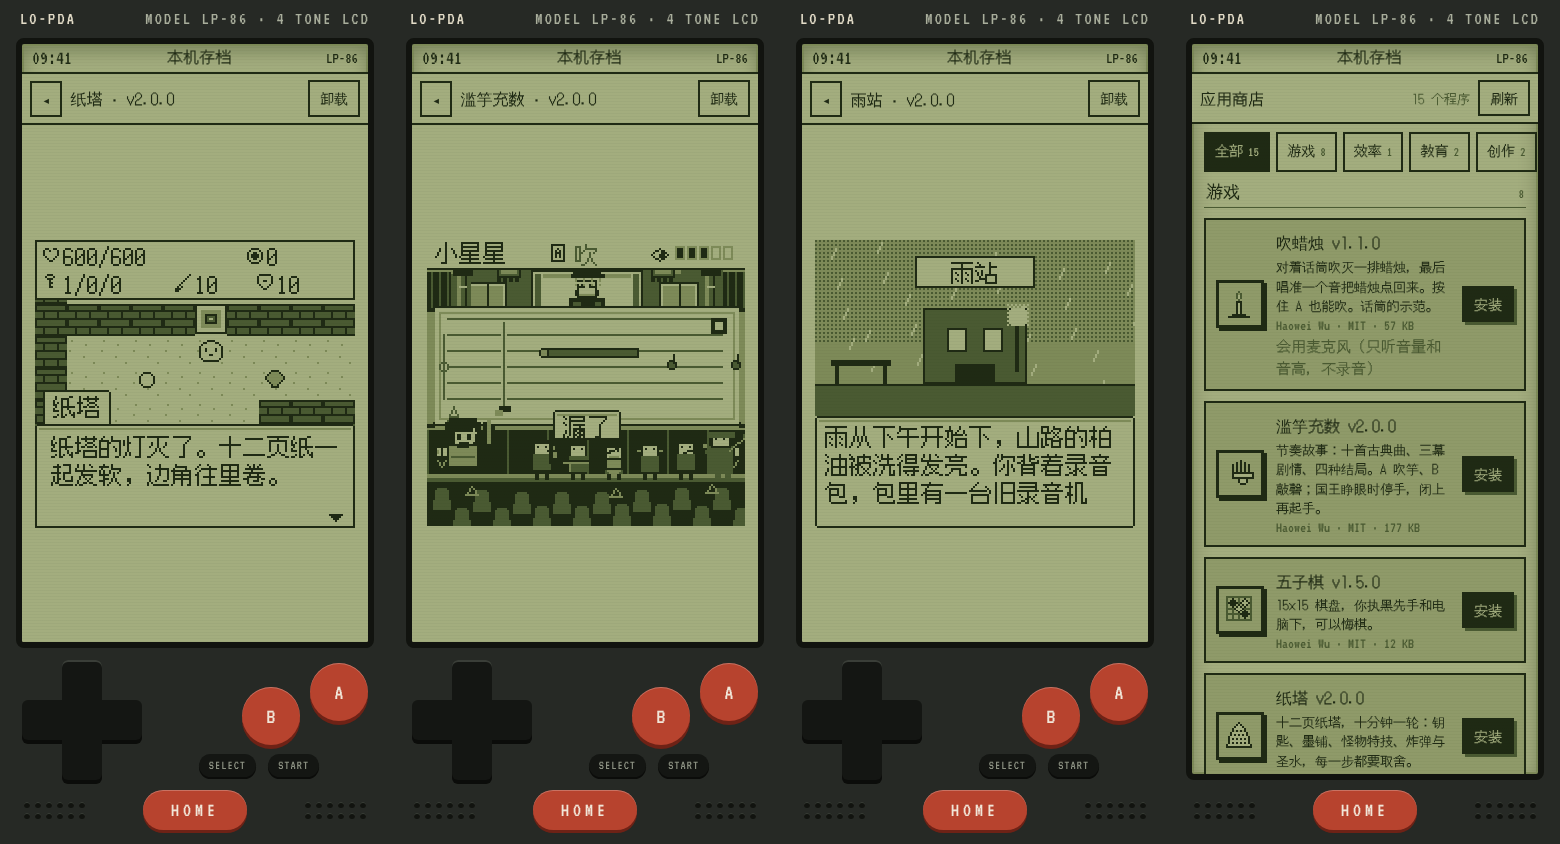
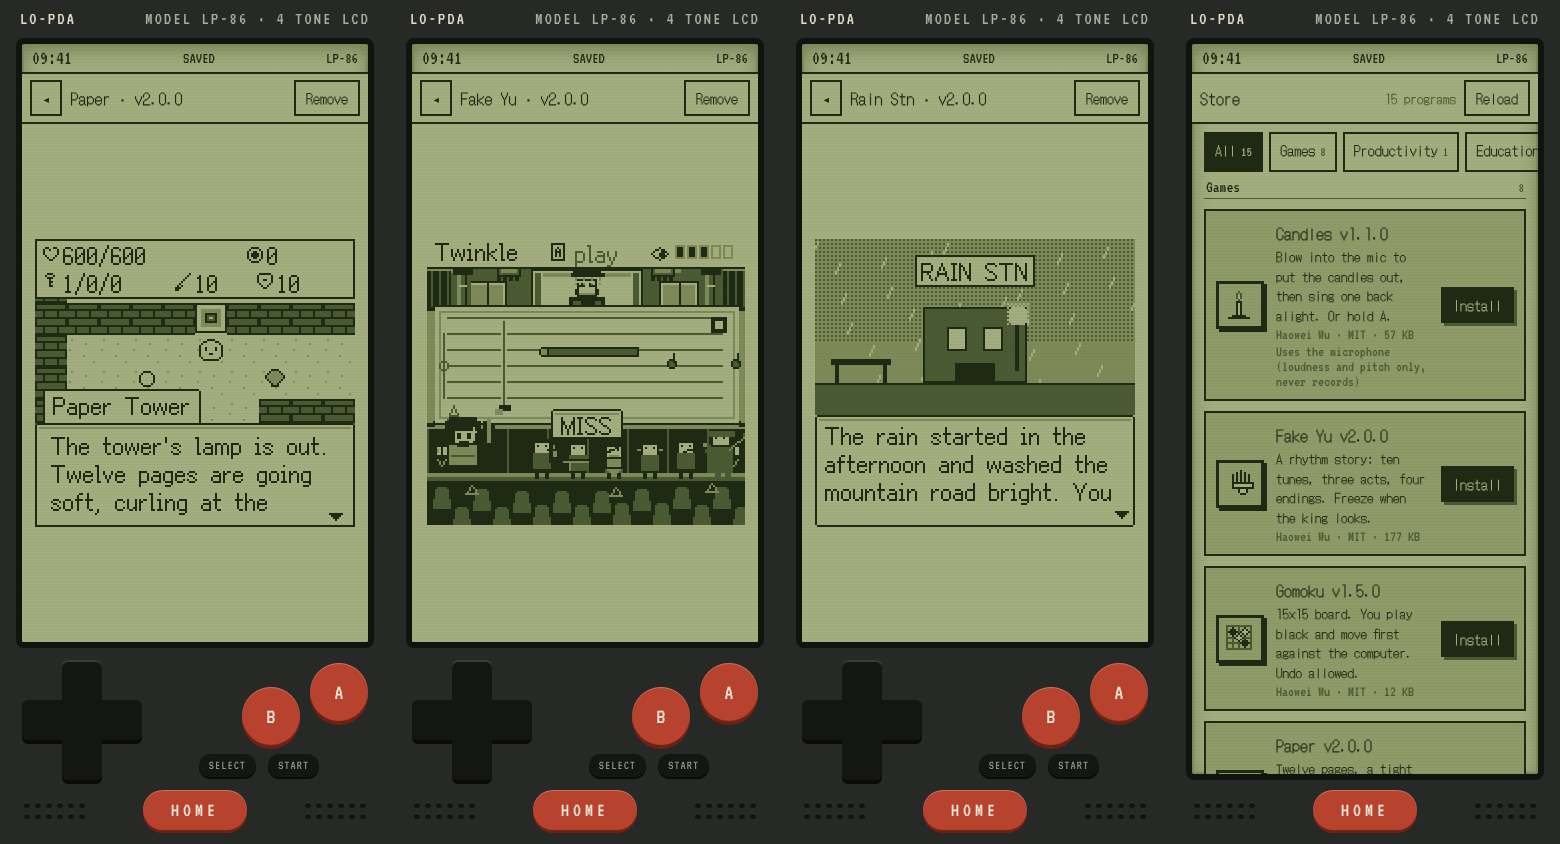
README in English with English screenshots; README.zh.md in Chinese with the Chinese ones
tools/readme-shots.mjs takes --lang=en|zh: English (the default) writes
docs/images/ for README.md, Chinese writes docs/images/zh/ for README.zh.md.
The prints (contact sheet, film strip) are the same in both and made once.
Each README links to the other at the top.

Claude-Session: https://claude.ai/code/session_01TjV6BxdRpnRvhUVWJhsNTR

diff --git a/README.zh.md b/README.zh.md
@@ -1,0 +1,132 @@
+# Lo-PDA
+
+一台住在手机里的四色掌机，Hi-PDA 的低保真表亲。
+
+**[English →](README.md)**
+
+**在线试玩：** https://nowheremanx.github.io/lopda/ （用手机打开，再选「添加到主屏幕」）
+
+![手机上的 Lo-PDA：主屏、相机的点阵取景器、冲洗店里冲出来的彩色照片、用这张照片做的拼图](docs/images/zh/screens.png)
+
+Lo-PDA 是一个渐进式网页应用（PWA），样子是一台虚构的 1986 年掌机：一块只有四种颜色的绿色液晶屏，
+下巴上有十字键、A、B、SELECT、START，还有一个 HOME 键。里面有胶片相机和冲洗店、日记、万年历、词典、
+阅读器、卡带机，还有一个放社区小程序的应用商店。所有东西都在手机上运行、存在手机上：
+不用注册，没有广告，没有统计，离线也能用。
+
+## 用 Lo-PDA 拍的
+
+相机照胶片相机的规矩来。装一卷 8、12 或 16 张的胶卷，七种胶片任选一种
+（人像 400、暖阳 200、青绿 400、樱 400、夜 800T、黑白 400、过期）。取景器是实时的四色点阵，没有回看：
+冲洗之前你不知道拍成了什么样。拍完的胶卷取出来，放进冲洗店的胶卷盒。
+
+每卷胶卷在冲洗店里只冲一次，冲出来是彩色的：有这种胶片的色调、颗粒、高光晕，偶尔漏光，角上印着日期。
+看片的时候是整台掌机唯一显示彩色的地方，像把相片放在玻璃上看。相片可以导出成单张、接触印相或胶片条；
+整卷也可以导出成一张四色底片 PNG，里面带着彩色原片，以后还能导回来。
+
+<img src="docs/images/contact-sheet.png" width="360" alt="一卷 8 张人像 400 的接触印相：湖、山上的塔、一条从左划到右的帆船">
+
+![同一卷的胶片条，有齿孔和边缘字](docs/images/film-strip.png)
+
+## 里面有什么
+
+![记事本里今天的日记、带农历和日记折角的万年历、词典的一个词条、阅读器里的《论语》](docs/images/zh/builtins.png)
+
+| 内置程序 | 做什么 |
+|---|---|
+| 记事本 | 一打开就是今天的日记，还有「那年今日」。`#标签`、搜索、置顶、保留 30 天的回收站；可以把全部笔记打包成 Markdown 文件导出，也能导回来。 |
+| 万年历 | 公历、农历和节气（1900–2100），国家法定节假日和调休，自己加的纪念日。写过日记的日子有一个折角。 |
+| 词典 | 英汉词典，内置、离线（精简版 ECDICT）。可以导入 StarDict 词典；生词本可以复习；按 A 读出单词。 |
+| 阅读器 | 看 TXT 和 EPUB，可以用自己的字体，有墨水屏式的全屏刷新。选中文字可以查词，也可以摘抄进记事本。自带两本公版书。 |
+| 点阵相机 | 实时点阵取景器、胶卷、七种胶片，手机上的每个镜头都能用。 |
+| 冲洗店 | 胶卷盒：冲洗、看彩色照片、出片、导出和导入底片。 |
+| 卡带机 | 玩你自己提供的黑白 Game Boy 文件，用下巴上的按键。存档可以导出、导入。不带任何游戏。 |
+| 应用商店 | 按分类安装、更新、运行社区小程序。 |
+| 脚本 | 你自己的 HTML/JS 小程序：复制一段给 AI 的提示词，把它写的代码粘回来，在沙盒里运行。 |
+| 设置 | 声音、音量、语言（中文 / English）、哪些 app 能用传感器和相机、整机备份和恢复、检查更新。 |
+
+## 应用商店
+
+![正在玩的三个商店游戏：纸塔、滥竽充数、雨站，还有商店列表](docs/images/zh/apps.png)
+
+现在有 15 个，全部开源，都是给 Lo-PDA 做的：
+
+| 类型 | app |
+|---|---|
+| 游戏 | 纸塔（十分钟爬一座塔）、滥竽充数（单键节奏故事）、拍照拼图（用你拍的照片拼）、滚珠迷宫（倾斜手机）、吹蜡烛（对着话筒吹）、五子棋、打地鼠、镇妖塔·序章（3D） |
+| 故事 | 雨站，视觉小说，七章，五个结局 |
+| 工具和玩具 | 计算器和点阵画板（预装）、每日一签、五十音图、声音样本、矢量梦 |
+
+预装的 app 和别的商店 app 一样：删掉就不会再自动装回来，商店里还能再装。
+
+## 做一个 app
+
+一个 app 就是一个不超过 512 KB 的 HTML 文件，加一个 `manifest.json`。它在沙盒 iframe 里运行，不能联网，
+没有自己的存储，通过一个小小的 `PAD` 对象和掌机打交道：
+
+| | app 能用什么 |
+|---|---|
+| 随时能用 | 按键、256 KB 存档、内置音效、MML 芯片音乐、自定义音效、环境音（雨、海浪、火……）、当前语言、`PAD.say` 朗读一句话 |
+| 要声明权限 | `files`（导出、导入一个文件）、`motion`（倾斜和摇晃）、`mic`（音量和音高，不录音）、`notes`（写进记事本）、`camera`（通过掌机自己的取景器拍一张四色照片） |
+
+每个权限都由掌机自己来问，不是 app 问；玩家可以拒绝，拒绝后 app 也必须能用按键玩。
+完整规则见 [`SPEC.md`](SPEC.md)（规范 `lopda/1`），屏幕布局规则见 [`sdk/UI.md`](sdk/UI.md)。
+
+```sh
+cp -r sdk/template registry/apps/my-app       # 然后把 manifest.json 里的 "id" 改成 "my-app"
+python3 -m http.server 8086                   # 在仓库根目录运行
+# 打开 http://localhost:8086/sdk/dev.html?app=registry/apps/my-app
+node tools/check-app.mjs registry/apps/my-app
+node tools/build-index.mjs
+```
+
+- 用 AI 写：[`sdk/PROMPT.md`](sdk/PROMPT.md) 是现成的提示词。
+- 做游戏：[`sdk/lo-game.js`](sdk/LO-GAME.md) 带像素字体、对话框、菜单和地图；从 `sdk/template-game/` 开始，
+  视觉小说用 `sdk/template-vn/`。3D 用 [`sdk/lo-3d.js`](sdk/LO-3D.md)。
+- 线上开发台不用装任何东西，带按键和日志，能直接加载任何商店 app：
+  `https://nowheremanx.github.io/lopda/sdk/dev.html?app=registry/apps/<id>`。
+- 投稿就是开一个 pull request。中英双语的步骤见 [`CONTRIBUTING.md`](CONTRIBUTING.md)，
+  审核看什么见 [`docs/REVIEW.md`](docs/REVIEW.md)。
+
+## 你的数据
+
+所有数据都存在手机浏览器的本地存储里。「设置 → 备份」把整台掌机（笔记、胶卷和彩色原片、书、词典、卡带存档、app 存档）
+打成一个 `lopda-backup-YYYYMMDD.zip`；「恢复」先校验这个文件，校验通过才放回去。内置程序里只有万年历会联网：
+缺下一年的节假日表时，从 jsDelivr 拉一次（到今年为止的表已经打包在里面）。app 完全不能联网。
+
+## 在本机运行
+
+在仓库根目录起任何一个静态文件服务器都行，因为 runtime 会加载 `../sdk/` 和 `../registry/`：
+
+```sh
+cd lopda
+python3 -m http.server 8086
+# 打开 http://localhost:8086/runtime/
+```
+
+手机上要用 **HTTPS** 打开，再「添加到主屏幕」。直接用 `http://<电脑的 IP>:8086` 可以随便看看，
+但在不安全的地址上，浏览器会关掉实时相机、离线模式和分享面板。开发时拿到 HTTPS 的两个简单办法：
+
+```sh
+# 一个临时的公网 https 地址，不用注册
+brew install cloudflared
+cloudflared tunnel --url http://localhost:8086
+# 然后在手机上打开 https://<随机名>.trycloudflare.com/runtime/
+```
+
+或者用 GitHub Pages 发布这个仓库。
+
+`node --test` 运行测试（没有依赖）。`node tools/readme-shots.mjs --lang=zh` 生成这一页的截图（需要 Playwright）。
+
+## 设计原则
+
+每个改动都应该替用户少做一个决定，至少不多加一个。四种颜色、固定的张数、不能回看、一卷只冲一次、
+拍下的照片不能改。限制本身就是乐趣。为什么这样设计，见 [`docs/decisions.md`](docs/decisions.md)。
+
+<sub>截图是在电脑浏览器里由 `tools/readme-shots.mjs` 生成的；相机拍的是代码画出来的一片湖。</sub>
+
+## 许可证
+
+[MIT](LICENSE)。Copyright (c) 2026 Haowei Wu。
+
+每个商店 app 由作者自选宽松许可证。第三方部分（字体、Game Boy 内核、词典数据、节假日表）保留各自的宽松许可，
+列在 `LICENSING.md` 和 `NOTICE` 里。「Lo-PDA」这个名字和图标不在许可范围内：发布给别人用的分支需要自己起名字。

diff --git a/README.md b/README.md
@@ -2,7 +2,7 @@
 
 A four-tone handheld that lives on your phone. Hi-PDA's low-fidelity cousin.
 
-一台住在手机里的四色掌机，Hi-PDA 的低保真表亲。
+**[中文介绍 / 中文截图 →](README.zh.md)**
 
 **Try it:** https://nowheremanx.github.io/lopda/ — open it on a phone and "Add to Home Screen".
 
@@ -31,7 +31,7 @@ as a four-tone negative PNG that carries the colour originals inside, and come b
 
 ## What's inside
 
-![Notes with today's diary, the calendar with lunar dates and a folded corner on days with a diary, a dictionary entry, and a page of the Analects in the reader](docs/images/builtins.png)
+![Notes with today's diary, the calendar with lunar dates and a folded corner on days with a diary, a dictionary entry, and a page of Alice in Wonderland in the reader](docs/images/builtins.png)
 
 | Built-in | 内置 | What it does |
 |---|---|---|
@@ -60,7 +60,7 @@ Fifteen apps today, all open source and all made for Lo-PDA:
 
 Preinstalled apps are ordinary store apps: remove them and they stay removed; the store has them again.
 
-## Make an app / 做一个 app
+## Make an app
 
 An app is one HTML file of up to 512 KB and a `manifest.json`. It runs in a sandboxed iframe with no network
 and no storage of its own, and talks to the handheld through a small `PAD` object:
@@ -88,7 +88,7 @@ node tools/build-index.mjs
 - The online harness loads any registry app with buttons and a log, nothing to install:
   `https://nowheremanx.github.io/lopda/sdk/dev.html?app=registry/apps/<id>`.
 - To submit, open a pull request; [`CONTRIBUTING.md`](CONTRIBUTING.md) has the steps in English and Chinese, and
-  [`docs/REVIEW.md`](docs/REVIEW.md) says what a review looks for. 完整双语步骤和投稿清单见 CONTRIBUTING.md。
+  [`docs/REVIEW.md`](docs/REVIEW.md) says what a review looks for.
 
 ## Your data
 
@@ -129,7 +129,7 @@ or publish the repository with GitHub Pages.
 runtime/     the PWA: index.html, core.js, apps/ (one file per built-in), boot.js, strings.js, platform.js, sw.js, fonts, vendor
 sdk/         MIT: PAD bridge, lo-game.js, lo-3d.js, templates, dev harness, AI prompts
 registry/    index.json + apps/<id>/{manifest.json,index.html}
-tools/       check-app.mjs, build-index.mjs, bundle-app.mjs, readme-shots.mjs (Node 20+, no dependencies)
+tools/       check-app.mjs, build-index.mjs, bundle-app.mjs (Node 20+, no dependencies), readme-shots.mjs (needs Playwright)
 tests/       run with `node --test`
 docs/        decisions.md (why things are the way they are), design notes, review rules
 SPEC.md      app specification lopda/1
@@ -141,7 +141,7 @@ Every change should take a decision away from the user, or at least not add one.
 no previews, one development per roll, frames you can't edit. The limits are the point.
 Why things are the way they are: [`docs/decisions.md`](docs/decisions.md).
 
-<sub>The screenshots were made in a desktop browser by `tools/readme-shots.mjs`, with the camera fed a lake drawn in code.</sub>
+<sub>The screenshots were made in a desktop browser by `tools/readme-shots.mjs` (`--lang=zh` for the Chinese ones), with the camera fed a lake drawn in code.</sub>
 
 ## License
 

diff --git a/CLAUDE.md b/CLAUDE.md
@@ -26,13 +26,13 @@ sdk/            MIT. pad-shim.js (PAD bridge), lo-game.js (game framework), LO-G
                 dev.html (app harness), template/, template-game/, template-vn/ (visual novel), fonts/ (lopix12, OFL)
 registry/       index.json (generated) + apps/<id>/{manifest.json,index.html,src/ (optional sources)}
 tools/          check-app.mjs, build-index.mjs, bundle-app.mjs (+ lo-game.mjs alias), lo-game-lib.mjs, stamp-preview.mjs (Node 20+, no deps);
-                readme-shots.mjs (the README's pictures in docs/images/, needs Playwright) with readme-scene.mjs (the lake the fake camera sees);
+                readme-shots.mjs (the README pictures: docs/images/ in English, --lang=zh into docs/images/zh/ for README.zh.md; needs Playwright) with readme-scene.mjs (the lake the fake camera sees);
                 gen-lunar.py (one-off generator of the lunar table, needs PyEphem); gen-ecdict.mjs (one-off, ECDICT csv ->
                 vendor/ecdict/) with stardict-write.mjs (StarDict + dictzip writer, also used by tests)
 tests/          node:test suite (no deps): tools, strings, PAD shim, sensors, speech, platform store, backup, lo-game, negative, develop, notetext, zip, repo rules;
                 runtime-shots.mjs (before/after screenshots of the runtime), hko-compare.mjs (lunar table vs the HKO tables, manual)
 SPEC.md         app spec lopda/1 (MIT)
-LICENSE NOTICE LICENSING.md CONTRIBUTING.md
+README.md (English, the homepage) README.zh.md (Chinese) LICENSE NOTICE LICENSING.md CONTRIBUTING.md
 ```
 
 ## Stack
